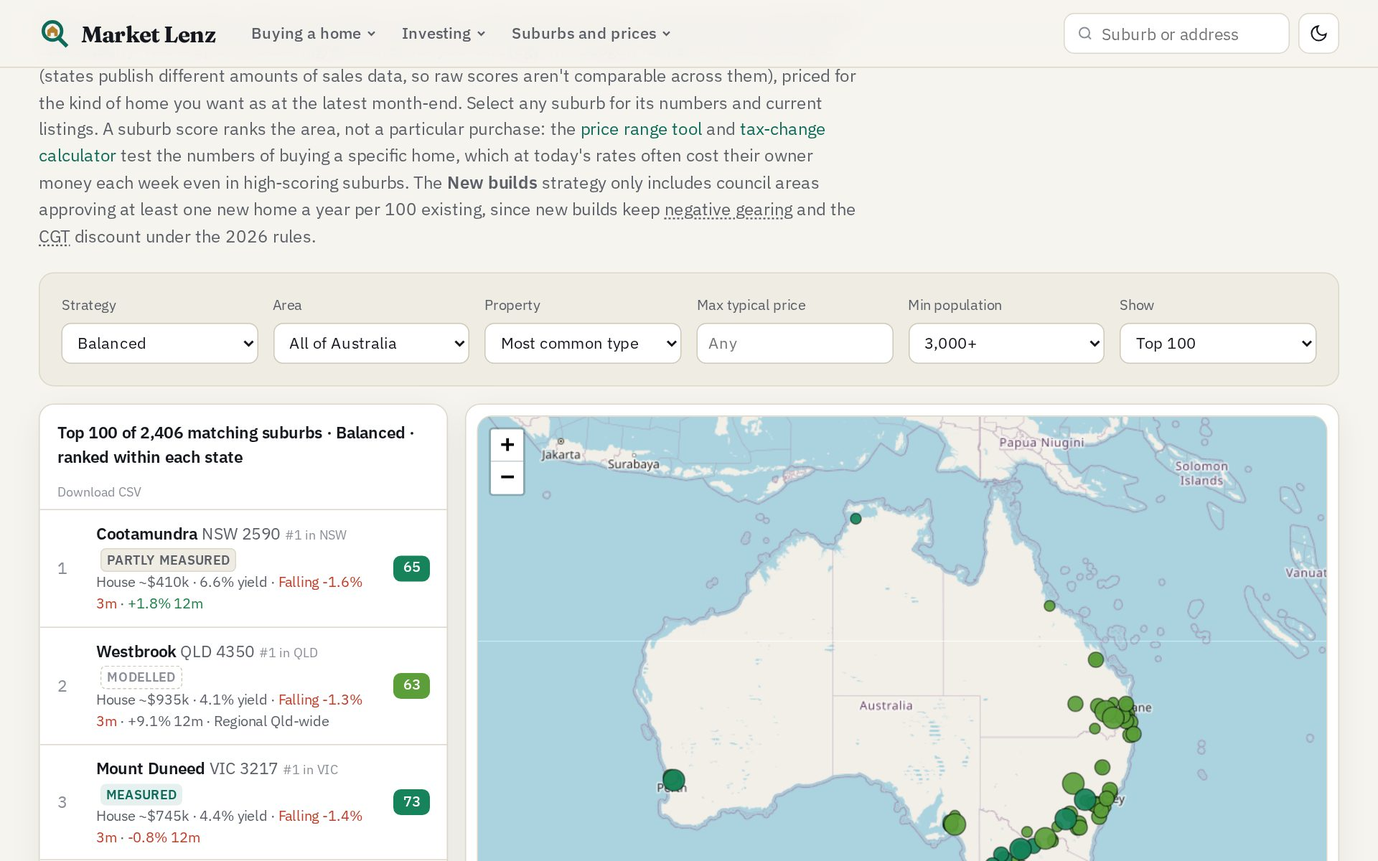
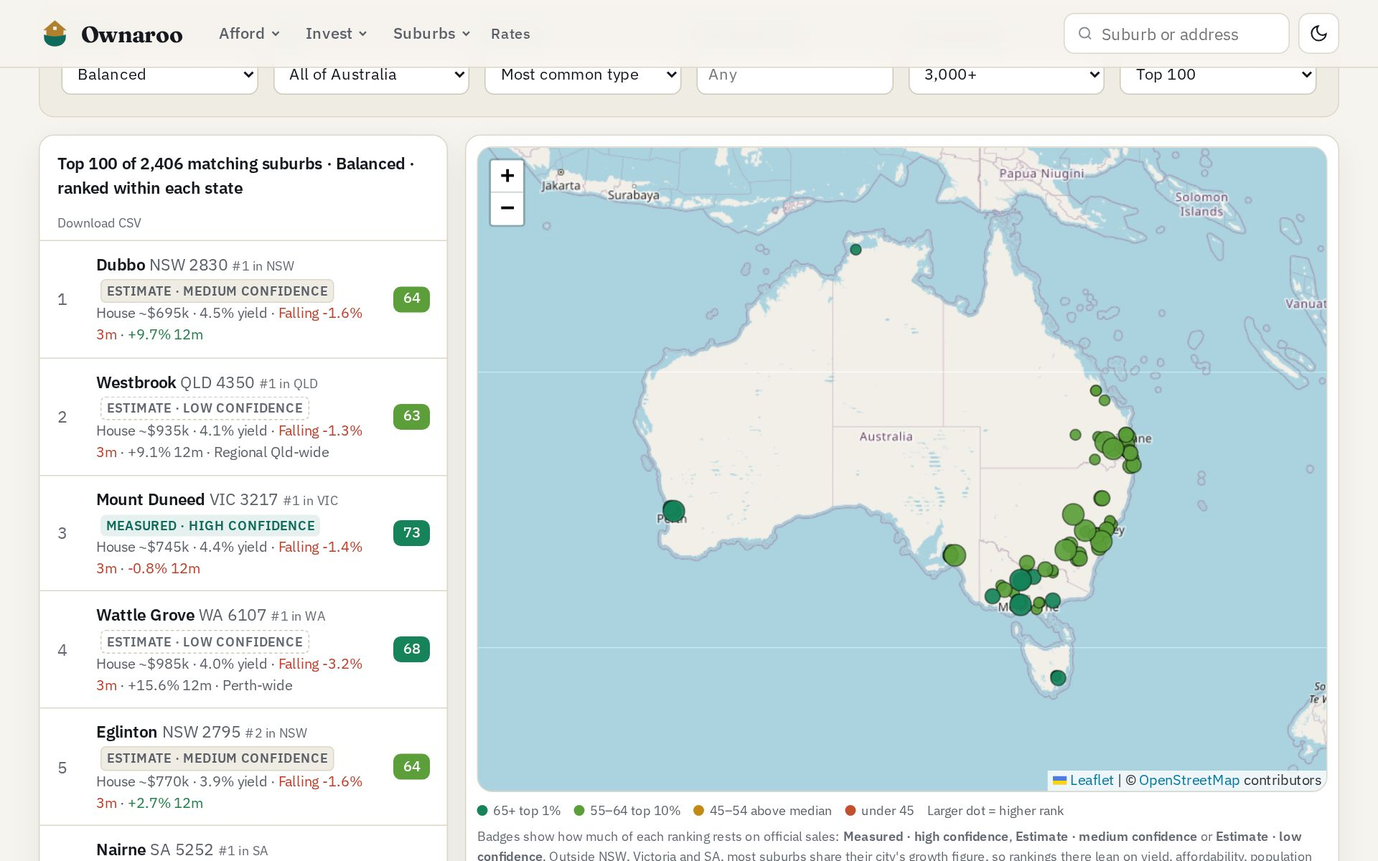
Bring back the videos and photos; scrolling rate strip
- About is the full showcase again: tour, each tool in action (6 videos), what it does
  (8 fresh screenshots, including the listing price check), what makes it different
- Demo videos back on afford, analyse, property, rates and first home; home page demo
  tabs (6 clips), the 2026 tax band and the rates and RBA card are back
- Rate strip scrolls again, pauses on hover, with 2-year fixed and each capital's 12-month change
- Screenshots re-shot with the current Ownaroo screens (old ones still said Market Lenz)

Claude-Session: https://claude.ai/code/session_01VBbqF2HeFDbmQVRNHKvkZe

diff --git a/site/assets/pages/why.js b/site/assets/pages/why.js
@@ -1,3 +1,4 @@
+import { demo } from '../demo.js';
 
 
 // chapter starts in seconds (scripts/media/tour.mjs writes the same list to ownaroo-tour.json)
@@ -9,6 +10,73 @@ export const WHO = [
   ['Investors', 'Rank suburbs by strategy, test any deal against the 2026 negative gearing and CGT rules, model joint ownership and land tax across your holdings, and compare advertised rates from more than 90 lenders.', '/analyse'],
 ];
 
+
+// "What it does": a screenshot and a paragraph for each tool (images in /assets/media, re-shot 29 Sept 2026)
+export const TOUR = [
+  ['afford', 'Know what you can comfortably afford', 'Enter your savings and income once. Ownaroo works out a comfortable price where you want to buy, the cash you need and the weekly repayment, with your state’s stamp duty and first home concessions, the 5% Deposit Scheme, Help to Buy, Keystart and the lender stress test, then ranks the suburbs where a typical home fits.', '/afford?buyer=fhb', 'What can I afford?'],
+  ['analyser', 'Investment numbers that follow the 2026 rules', 'Stamp duty, LMI, land tax on your total holdings, depreciation and a 10-year after-tax cash flow and return, for one owner or two. It runs the same deal as a new build and as an established home, side by side, and compares the return with paying down your home loan.', '/analyse', '2026 tax-change calculator'],
+  ['valuation', 'A price range for a typical home', 'Type an address and get a likely price range for a typical home like it in that suburb, with how far to trust it, the cash you need, the repayments, and links to the street and the official hazard maps.', '/property', 'Price range for a home'],
+  ['map', 'Find the strongest suburbs', 'Every suburb with Census data (11,042) scored on yield, population growth net of new building, rental demand, affordability and stability. Filter by budget and strategy, and see how sure each figure is.', '/suburbs', 'Explore suburbs'],
+  ['suburb', 'Everything about a suburb on one page', 'Prices and rents at the latest month-end, the trend, new building nearby, the people, the risks, the full cost to buy, and a report you can save as a PDF.', '/suburb/wa/morley-6062', 'See a suburb report'],
+  ['price-check', 'Which buyers does a price shut out?', 'For agents and sellers: enter a listing price and see which first home buyer schemes still work at that price, the prices that bring buyers back, and a "Can you afford this home?" link and QR code for the listing.', '/price-check', 'Check a listing price'],
+  ['rent-vs-buy', 'Plan before you search', 'How long it will take to save a deposit, whether buying beats renting over the years you’ll stay, and how much faster the First Home Super Saver scheme gets you there.', '/first-home', 'First home tools'],
+  ['rates', 'Home loan rates, straight from lenders’ own feeds', 'Advertised rates from more than 90 lenders that publish Open Banking product data, checked several times a day, with the lowest rate open to anyone up front and the next RBA decision.', '/rates', 'Compare rates'],
+];
+
+export const DIFF = [
+  ['The whole decision in one place', 'Most people juggle a listing portal, a bank calculator, a duty calculator, a rates site and a spreadsheet. Ownaroo joins them up: the same property flows from a price range, to what you can afford, to repayments, to the long-term numbers.'],
+  ['Honest about uncertainty', 'Every price says how sure it is, every ranking says whether it rests on measured or modelled data, and the methodology page publishes the model’s own tested error.'],
+  ['Current rules, every state and territory', 'The 2026 negative gearing and CGT changes, each state’s stamp duty and first home thresholds, the scheme price caps, Help to Buy, Keystart, the First Home Super Saver scheme and the RBA calendar, checked and dated.'],
+  ['Official data, dated', 'Official sales medians where states publish them, the ABS Census, income, building approvals and population estimates, the RBA and the Open Banking rate feeds of more than 90 lenders. Anything modelled is labelled.'],
+  ['Independent', 'Ownaroo doesn’t sell property or loans. Rankings are never paid for: rates are ranked on rate alone and suburbs by the same formula everywhere.'],
+  ['Free, fast and private', 'No account needed. It works on your phone, and your saved suburbs and deals stay in your own browser (you can move them with a file).'],
+];
+
+/** The showcase part of the About page: tour, each tool in action, what it does, what makes it different. */
+export function showcase(rs, companyHtml) {
+  return `
+  <section class="why-hero">
+    <div>
+      <div class="eyebrow">About Ownaroo</div>
+      <h1>Everything you need to buy the right home, <em>in one place.</em></h1>
+      <p class="lead">Ownaroo is a free, independent Australian property site. It answers four questions: what can I afford, what will this investment really cost, what is this suburb like, and what rate can I get${rs ? `, with ${rs.rows.toLocaleString()} rates from ${rs.lenders} lenders` : ''}.</p>
+      <div class="row"><a class="btn primary" href="/afford?buyer=fhb" data-link>Start with what you can afford</a><a class="btn" href="/analyse" data-link>2026 tax-change calculator</a></div>
+    </div>
+    ${tourFigure()}
+  </section>
+
+  <section class="section">
+    <h2>Each tool in action</h2>
+    <div class="demo-grid">${['budgetmap', 'afford', 'calculator', 'estimate', 'suburb', 'rates'].map((c) => demo(c)).join('')}</div>
+  </section>
+
+  <section class="section">
+    <h2>Built for people buying a home</h2>
+    <div class="grid g3 why-who">${WHO.map(([t, d, href]) => `<a class="card product" href="${href}" data-link><h3>${t}</h3><p class="muted">${d}</p></a>`).join('')}</div>
+  </section>
+
+  <section class="section">
+    <h2>What it does</h2>
+    ${TOUR.map(([img, t, d, href, cta], i) => `<div class="why-row ${i % 2 ? 'flip' : ''}">
+      <a class="why-shot" href="${href}" data-link><img src="/assets/media/${img}.jpg" alt="${t}: Ownaroo screen" loading="lazy" width="1280" height="800"></a>
+      <div><h3>${t}</h3><p class="muted">${d}</p><a class="btn sm" href="${href}" data-link>${cta} →</a></div>
+    </div>`).join('')}
+  </section>
+
+  <section class="section">
+    <h2>What makes Ownaroo different</h2>
+    <div class="grid g3">${DIFF.map(([t, d]) => `<div class="card flat"><h3 style="font-size:17px">${t}</h3><p class="muted" style="margin:0">${d}</p></div>`).join('')}</div>
+  </section>
+
+  <section class="section grid g2">
+    <div class="card"><h3>Why start here</h3><p class="muted">The expensive mistakes in property happen before the search: buying at the top of your budget, in the wrong area, or without knowing the true cost of holding it. Ownaroo answers those questions first, so when you open the listings you already know your comfortable price, your target suburbs and the cash you need.</p></div>
+    <div class="card"><h3>What Ownaroo isn’t</h3><p class="muted">It isn’t a lender, broker, agent or financial adviser, and its estimates are general information that can be wrong. A bank valuation, recent sales in the street and independent advice still matter for a specific purchase.</p></div>
+  </section>
+
+  <section class="section"><div class="prose" style="max-width:760px">${companyHtml}</div></section>
+
+  <section class="section callout green" style="text-align:center"><h2 style="margin-top:0">Try it with your own numbers</h2><p>It takes a minute and you don’t need an account.</p><div class="row" style="justify-content:center"><a class="btn primary" href="/afford?buyer=fhb" data-link>What can I afford?</a><a class="btn" href="/first-home" data-link>First home tools</a><a class="btn" href="/analyse" data-link>2026 tax-change calculator</a></div></section>`;
+}
 
 /** The two-minute tour with chapter buttons (used on the About page). */
 export function tourFigure() {

diff --git a/site/assets/pages/about.js b/site/assets/pages/about.js
@@ -1,16 +1,13 @@
 import { setMeta, esc } from '../ui.js';
 import { SITE } from '../site.js';
-import { WHO, tourFigure, wireTour } from './why.js';
+import { showcase, wireTour } from './why.js';
+import { load } from '../data.js';
 
 const PAGES = {
   about: {
     title: 'About Ownaroo',
     description: 'What Ownaroo does for home buyers and investors, who runs it, where its numbers come from and how it stays independent.',
     body: (h) => `
-      <p class="lead" style="font-size:18px">Ownaroo is a free, independent calculator site for Australian home buyers and investors. It answers four questions: what can I afford, what will this investment really cost, what is this suburb like, and what rate can I get.</p>
-      ${h.tour}
-      <h2>Built for people buying a home</h2>
-      <div class="grid g3 why-who" style="margin-bottom:8px">${WHO.map(([t, d, href]) => `<a class="card product" href="${href}" data-link><h3>${t}</h3><p class="muted">${d}</p></a>`).join('')}</div>
       <h2>Who runs it</h2>
       ${h.owner}
       <h2>Where the numbers come from</h2>
@@ -106,8 +103,14 @@ export default async function infoPage(main, params) {
   const business = SITE.abn || SITE.email || SITE.businessName
     ? `<div class="card flat tint" style="margin:18px 0"><div class="kv">${SITE.businessName ? `<span>Business</span><span>${esc(SITE.businessName)}</span>` : ''}${SITE.abn ? `<span>ABN</span><span>${esc(SITE.abn)}</span>` : ''}${SITE.email ? `<span>Email</span><span><a href="mailto:${esc(SITE.email)}">${esc(SITE.email)}</a></span>` : ''}${SITE.location ? `<span>Based in</span><span>${esc(SITE.location)}</span>` : ''}</div></div>`
     : '';
-  main.innerHTML = `<div class="page-head"><div class="eyebrow">Ownaroo</div><h1>${P.title}</h1></div><div class="prose" style="max-width:760px">${P.body({ business, owner, tour: key === 'about' ? tourFigure() : '', updated: SITE.policyUpdated, abn: esc(SITE.abn || ''), entity: esc(SITE.entity || SITE.businessName), email: esc(SITE.email), location: esc(SITE.location), law: esc(SITE.governingLaw || 'Western Australia') })}</div>`;
-  if (key === 'about') wireTour(main);
+  const args = { business, owner, updated: SITE.policyUpdated, abn: esc(SITE.abn || ''), entity: esc(SITE.entity || SITE.businessName), email: esc(SITE.email), location: esc(SITE.location), law: esc(SITE.governingLaw || 'Western Australia') };
+  if (key === 'about') {
+    const rs = await load('rates-summary').catch(() => null);
+    main.innerHTML = showcase(rs, P.body(args));
+    wireTour(main);
+    return;
+  }
+  main.innerHTML = `<div class="page-head"><div class="eyebrow">Ownaroo</div><h1>${P.title}</h1></div><div class="prose" style="max-width:760px">${P.body({ business, owner, tour: '', updated: SITE.policyUpdated, abn: esc(SITE.abn || ''), entity: esc(SITE.entity || SITE.businessName), email: esc(SITE.email), location: esc(SITE.location), law: esc(SITE.governingLaw || 'Western Australia') })}</div>`;
   const form = main.querySelector('#contact-form');
   form?.addEventListener('submit', async (e) => {
     e.preventDefault();

diff --git a/site/assets/pages/home.js b/site/assets/pages/home.js
@@ -1,3 +1,4 @@
+import { rateWatchCard } from '../ratewatch.js';
 import { esc, aud, pct, setMeta, date } from '../ui.js';
 import { load, typicalRate, suburbs, suburbUrl } from '../data.js';
 import { navigate } from '../app.js';
@@ -60,9 +61,23 @@ export default async function home(main) {
   </section>
 
   <section class="section">
-    <div class="spread"><h2>See it in action</h2><a href="/about" data-link>Two-minute tour →</a></div>
+    <div class="spread"><h2>See it in action</h2><a href="/about" data-link>The full two-minute tour →</a></div>
+    <div class="seg" id="demo-tabs" role="tablist">${[['afford', 'What can I afford?'], ['calculator', '2026 tax calculator'], ['budgetmap', 'Budget map'], ['estimate', 'Price range for a home'], ['suburb', 'Suburb report'], ['rates', 'Rates']].map(([k, l], i) => `<button type="button" role="tab" data-demo-tab="${k}" class="${i ? '' : 'on'}">${l}</button>`).join('')}</div>
     <div class="demo-stage" id="demo-stage">${demo('afford')}</div>
-    <p class="fine" style="margin-top:6px">Recorded with example inputs in September 2026.</p>
+    <p class="fine" style="margin-top:6px">Recorded with example inputs on 29 September 2026; the live figures change as the data updates.</p>
+  </section>
+
+  <section class="section">
+    <div class="card tax-band">
+      <div><div class="eyebrow">The 2026 tax changes, in numbers</div><h2 style="margin:4px 0 8px">Know what an investment property costs you each week</h2>
+      <p class="muted" style="margin:0">Established homes bought after 12 May 2026 can offset rental losses against your salary only until 30 June 2027; after that, losses carry forward or offset rental profit from your other properties. From 1 July 2027 the 50% CGT discount is replaced by indexation with a 30% minimum tax. New builds keep negative gearing and, on sale, can choose the old 50% discount or the new method. The calculator runs your deal both ways, side by side.</p></div>
+      <div class="tax-cta"><a class="btn primary" href="/analyse" data-link>Run the numbers →</a><a class="fine" href="/guide/tax-2026" data-link>What changed, in plain English</a></div>
+    </div>
+  </section>
+
+  <section class="section">
+    <div class="spread"><h2>Rates and the RBA</h2><a href="/markets" data-link>Market update →</a></div>
+    ${rateWatchCard(rba, { compact: true })}
   </section>
 
   <section class="section">
@@ -77,6 +92,13 @@ export default async function home(main) {
     },
   });
   wireDemos(main);
+  main.querySelector('#demo-tabs').addEventListener('click', (e) => {
+    const b = e.target.closest('[data-demo-tab]');
+    if (!b) return;
+    main.querySelectorAll('#demo-tabs button').forEach((x) => x.classList.toggle('on', x === b));
+    main.querySelector('#demo-stage').innerHTML = demo(b.dataset.demoTab);
+    wireDemos(main);
+  });
 
   // income slider: comfortable price vs median house and unit in each capital
   let dep = 0.2;

diff --git a/site/assets/pages/property.js b/site/assets/pages/property.js
@@ -1,3 +1,4 @@
+import { demo } from '../demo.js';
 import { esc, aud, pct, scoreBadge, setMeta, srcBadge, date, growth12, cashWeek, returnsLine } from '../ui.js';
 import { suburbs, suburbUrl, cleanName, load, haversine, nearby, typicalRate } from '../data.js';
 import { suburbScore, valueEstimate, analyse, verdict, stampDuty, lmi, repayment, scenarioReturns, incomeFor } from '../engine.js';
@@ -59,8 +60,8 @@ export default async function propertyPage(main, _p, query) {
   const index = null;
 
   main.innerHTML = `
-  <div class="page-head"><div><div class="eyebrow">Price range for a typical home</div><h1>What would a home like this cost?</h1>
-  <p>Enter an address. Ownaroo checks the street exists, then estimates what a typical home with these features costs in that suburb, from the suburb's price data. It is not an appraisal of the particular property: it can't see its condition, position or recent sales in the street. Buying to live in, it shows the cash you need, repayments against rent and what a rate rise would cost; buying to invest, it runs the rent, yield, after-tax cost and 10-year numbers. Add the asking price to see whether it sits inside the likely range.</p></div></div>
+  <div class="page-head${q ? '' : ' with-demo'}"><div><div class="eyebrow">Price range for a typical home</div><h1>What would a home like this cost?</h1>
+  <p>Enter an address. Ownaroo checks the street exists, then estimates what a typical home with these features costs in that suburb, from the suburb's price data. It is not an appraisal of the particular property: it can't see its condition, position or recent sales in the street. Buying to live in, it shows the cash you need, repayments against rent and what a rate rise would cost; buying to invest, it runs the rent, yield, after-tax cost and 10-year numbers. Add the asking price to see whether it sits inside the likely range.</p></div>${q ? '' : demo('estimate')}</div>
   <form class="hero-search" id="pf" style="max-width:none" data-nosubmit><input id="pq" type="search" value="${esc(q)}" placeholder="e.g. 14 Smith Street, Collingwood VIC 3066" aria-label="Property address"></form>
   <div id="pout"></div>`;
   const input = main.querySelector('#pq');

diff --git a/site/assets/pages/afford.js b/site/assets/pages/afford.js
@@ -1,3 +1,4 @@
+import { demo, wireDemos } from '../demo.js';
 import { esc, aud, pct, num, scoreBadge, setMeta, srcBadge, growth12, copyLinkButton, wireCopyLink } from '../ui.js';
 import { suburbs, suburbUrl, cleanName, load, openRate } from '../data.js';
 import { stampDuty, lmi, borrowingPower, repayment, analyse, suburbScore, PROFILES, incomeTax } from '../engine.js';
@@ -194,7 +195,8 @@ export default async function affordPage(main, _p, query) {
     const out = main.querySelector('#out');
     const missing = !String(f.savings).trim() || !String(f.income).trim();
     if ((!String(f.savings).trim() && !String(f.income).trim()) || (missing && !asked && !example)) {
-      out.innerHTML = `<div class="card"><h3 style="margin-top:0">Start with where you want to buy, your savings and your income</h3><p class="note">Ownaroo then works out a comfortable price there, the most a lender might let you stretch to, the cash you need, and the schemes you qualify for. Nothing you type is stored or sent anywhere.</p><button class="btn" type="button" id="aff-example">Or try it with example numbers</button></div>`;
+      out.innerHTML = `<div class="card"><h3 style="margin-top:0">Start with where you want to buy, your savings and your income</h3><p class="note">Ownaroo then works out a comfortable price there, the most a lender might let you stretch to, the cash you need, and the schemes you qualify for. Nothing you type is stored or sent anywhere.</p><button class="btn" type="button" id="aff-example">Or try it with example numbers</button></div>${demo('afford', { caption: 'See it in action: a Perth couple with $110k saved.' })}`;
+      wireDemos(out);
       out.querySelector('#aff-example').addEventListener('click', () => {
         form.savings.value = 110000;
         form.income.value = 95000;

diff --git a/site/assets/pages/firsthome.js b/site/assets/pages/firsthome.js
@@ -1,3 +1,4 @@
+import { demo } from '../demo.js';
 import { check, showErrors } from '../validate.js';
 import { nextStepsCard } from '../insights.js';
 import { esc, aud, pct, setMeta, lineChart, wireCharts } from '../ui.js';
@@ -87,8 +88,8 @@ export default async function firstHomePage(main, _p, query = {}) {
   const stOpts = Object.keys(STATES).map((s) => `<option value="${s}" ${s === 'WA' ? 'selected' : ''}>${s}</option>`).join('');
 
   main.innerHTML = `
-  <div class="page-head"><div><div class="eyebrow">First home tools</div><h1>Plan your first home</h1>
-  <p>Three calculators for the questions that come before the property search: how long it will take to save, whether buying beats renting over the years you'll stay, and how much faster the First Home Super Saver scheme gets you there. When you're ready, the <a href="/afford?buyer=fhb" data-link>affordability tool</a> finds where you can buy.</p></div></div>
+  <div class="page-head with-demo"><div><div class="eyebrow">First home tools</div><h1>Plan your first home</h1>
+  <p>Three calculators for the questions that come before the property search: how long it will take to save, whether buying beats renting over the years you'll stay, and how much faster the First Home Super Saver scheme gets you there. When you're ready, the <a href="/afford?buyer=fhb" data-link>affordability tool</a> finds where you can buy.</p></div>${demo('firsthome')}</div>
   <div class="row" style="margin-bottom:16px"><a class="pill" href="#save">How long to save</a><a class="pill" href="#rvb">Rent vs buy</a><a class="pill" href="#fhss">First Home Super Saver</a></div>
 
   <section class="section card" id="save"><h2>How long will it take to save?</h2>

diff --git a/site/assets/app.js b/site/assets/app.js
@@ -286,9 +286,17 @@ async function ticker() {
       `<a href="/markets" data-link><span>RBA cash rate</span> <b>${pct(rba.cashRate.current, 2)}</b><span>${after}${next ? ` · next decision ${day(next)}` : ''}</span></a>`,
       bestOO && `<a href="/rates" data-link><span>Lowest owner-occupier variable, open to anyone</span> <b>${pct(bestOO.rate, 2)}</b></a>`,
       bestInv && `<a href="/rates" data-link class="t-inv"><span>Lowest investor variable, open to anyone</span> <b>${pct(bestInv.rate, 2)}</b></a>`,
+      openRate(rs, 'OO_PI_fixed2') && `<a href="/rates" data-link><span>Lowest 2-year fixed, owner-occupier</span> <b>${pct(openRate(rs, 'OO_PI_fixed2').rate, 2)}</b></a>`,
+      // each capital's 12-month change in home values (month-end), most to least
+      ...Object.values(market.regions || {})
+        .filter((r) => r.capital && r.annualPct != null)
+        .sort((x, y) => y.annualPct - x.annualPct)
+        .map((r) => `<a href="/markets" data-link><span>${r.name} homes, 12 months</span> <b class="${r.annualPct >= 0 ? 'up' : 'down'}">${pct(r.annualPct, 1, true)}</b></a>`),
       `<span class="t-when">Rates checked ${ago(rs.updated)}</span>`,
     ].filter(Boolean);
-    $('#ticker').innerHTML = `<div class="ticker-in">${items.map((i) => `<div>${i}</div>`).join('')}</div>`;
+    // the strip scrolls; a second copy makes the loop seamless (hidden from screen readers), and it pauses on hover or focus
+    const row = items.map((i) => `<div>${i}</div>`).join('');
+    $('#ticker').innerHTML = `<div class="ticker-track"><div class="ticker-in">${row}</div><div class="ticker-in" aria-hidden="true" inert>${row}</div></div>`;
   } catch (e) {
     console.warn('ticker', e);
   }

diff --git a/site/assets/pages/analyse.js b/site/assets/pages/analyse.js
@@ -1,3 +1,4 @@
+import { demo } from '../demo.js';
 import { printHeader, brandPanel, wireBrand } from '../brand.js';
 import { esc, aud, pct, num, setMeta, lineChart, wireCharts, stack, date, cashWeek, dealContext, rankPill, returnsLine, copyLinkButton, wireCopyLink } from '../ui.js';
 import { suburbs, cleanName, suburbUrl, load, saveDeal, savedDeals, openRate, tzState } from '../data.js';
@@ -65,8 +66,8 @@ export default async function analysePage(main, _p, query) {
 
   const field = (id, label, value, attrs = '', help = '') => `<label class="field">${label}<input id="${id}" value="${esc(String(value ?? ''))}" ${attrs}>${help ? `<span class="help">${help}</span>` : ''}</label>`;
   main.innerHTML = `
-  <div class="page-head"><div><div class="eyebrow">2026 tax-change calculator</div><h1>What would an investment property really cost you?</h1>
-  <p class="lede-short">Enter a property. Ownaroo works out every cost, the weekly cost after tax and a 10-year return under the 2026 rules, for an established home and a new build. It describes the numbers; it doesn't tell you to buy.</p></div></div>
+  <div class="page-head with-demo"><div><div class="eyebrow">2026 tax-change calculator</div><h1>What would an investment property really cost you?</h1>
+  <p class="lede-short">Enter a property. Ownaroo works out every cost, the weekly cost after tax and a 10-year return under the 2026 rules, for an established home and a new build. It describes the numbers; it doesn't tell you to buy.</p></div>${demo('calculator')}</div>
   <div class="grid g-side" style="grid-template-columns:minmax(0,1fr) minmax(0,1.35fr)">
     <div>
       <div class="card">

diff --git a/site/assets/pages/rates.js b/site/assets/pages/rates.js
@@ -1,3 +1,4 @@
+import { demo } from '../demo.js';
 import { esc, aud, pct, ago, setMeta, sortable } from '../ui.js';
 import { rateRows, load } from '../data.js';
 import { repayment } from '../engine.js';
@@ -31,8 +32,8 @@ export default async function ratesPage(main, _p, query) {
   };
 
   main.innerHTML = `
-  <div class="page-head"><div><div class="eyebrow">Rates</div><h1>Home loan rates from ${rs.lenders} lenders</h1>
-  <p>${rs.rows.toLocaleString()} advertised rates from ${rs.lenders} lenders, read directly from each lender's public Consumer Data Right (Open Banking) product feed, checked several times a day. Every bank must publish one; some non-bank lenders don't, so they aren't here. Last check ${ago(R.updated)}.</p></div></div>
+  <div class="page-head with-demo"><div><div class="eyebrow">Rates</div><h1>Home loan rates from ${rs.lenders} lenders</h1>
+  <p>${rs.rows.toLocaleString()} advertised rates from ${rs.lenders} lenders, read directly from each lender's public Consumer Data Right (Open Banking) product feed, checked several times a day. Every bank must publish one; some non-bank lenders don't, so they aren't here. Last check ${ago(R.updated)}.</p></div>${demo('rates')}</div>
   <div style="margin-bottom:16px">${rateWatchCard(rba, { compact: true })}</div>
   <div class="grid g4">
     ${[['OO_PI_variable', 'owner-occupier variable'], ['OO_PI_fixed2', 'owner-occupier 2-year fixed'], ['INV_PI_variable', 'investor variable P&I'], ['INV_PI_fixed3', 'investor 3-year fixed']]

diff --git a/site/assets/app.css b/site/assets/app.css
@@ -809,3 +809,11 @@ details.fold[open] > summary { margin-bottom: 10px; }
   table.cards-sm.name-first td:last-child { justify-content: space-between; padding-top: 3px; }
 }
 table.cards-sm.name-first td:first-child, table.cards-sm.name-first td:first-child .fine { white-space: normal; }
+/* rate strip: a slow scrolling ticker (pauses on hover or keyboard focus; still for reduced motion) */
+.ticker { white-space: nowrap; overflow: hidden; }
+.ticker-track { display: flex; width: max-content; animation: tick 75s linear infinite; }
+.ticker-in { display: flex; flex-wrap: nowrap; gap: 30px; padding: 7px 15px; animation: none !important; max-width: none; margin: 0; }
+.ticker:hover .ticker-track, .ticker:focus-within .ticker-track { animation-play-state: paused; }
+.ticker b.up { color: var(--up); } .ticker b.down { color: var(--down); }
+@media (max-width: 640px) { .ticker .t-inv, .ticker .t-when { display: flex; } .ticker-in { gap: 22px; padding: 6px 11px; } .ticker-track { animation-duration: 60s; } }
+@media (prefers-reduced-motion: reduce) { .ticker-track { animation: none; } .ticker { overflow-x: auto; scrollbar-width: none; } }
